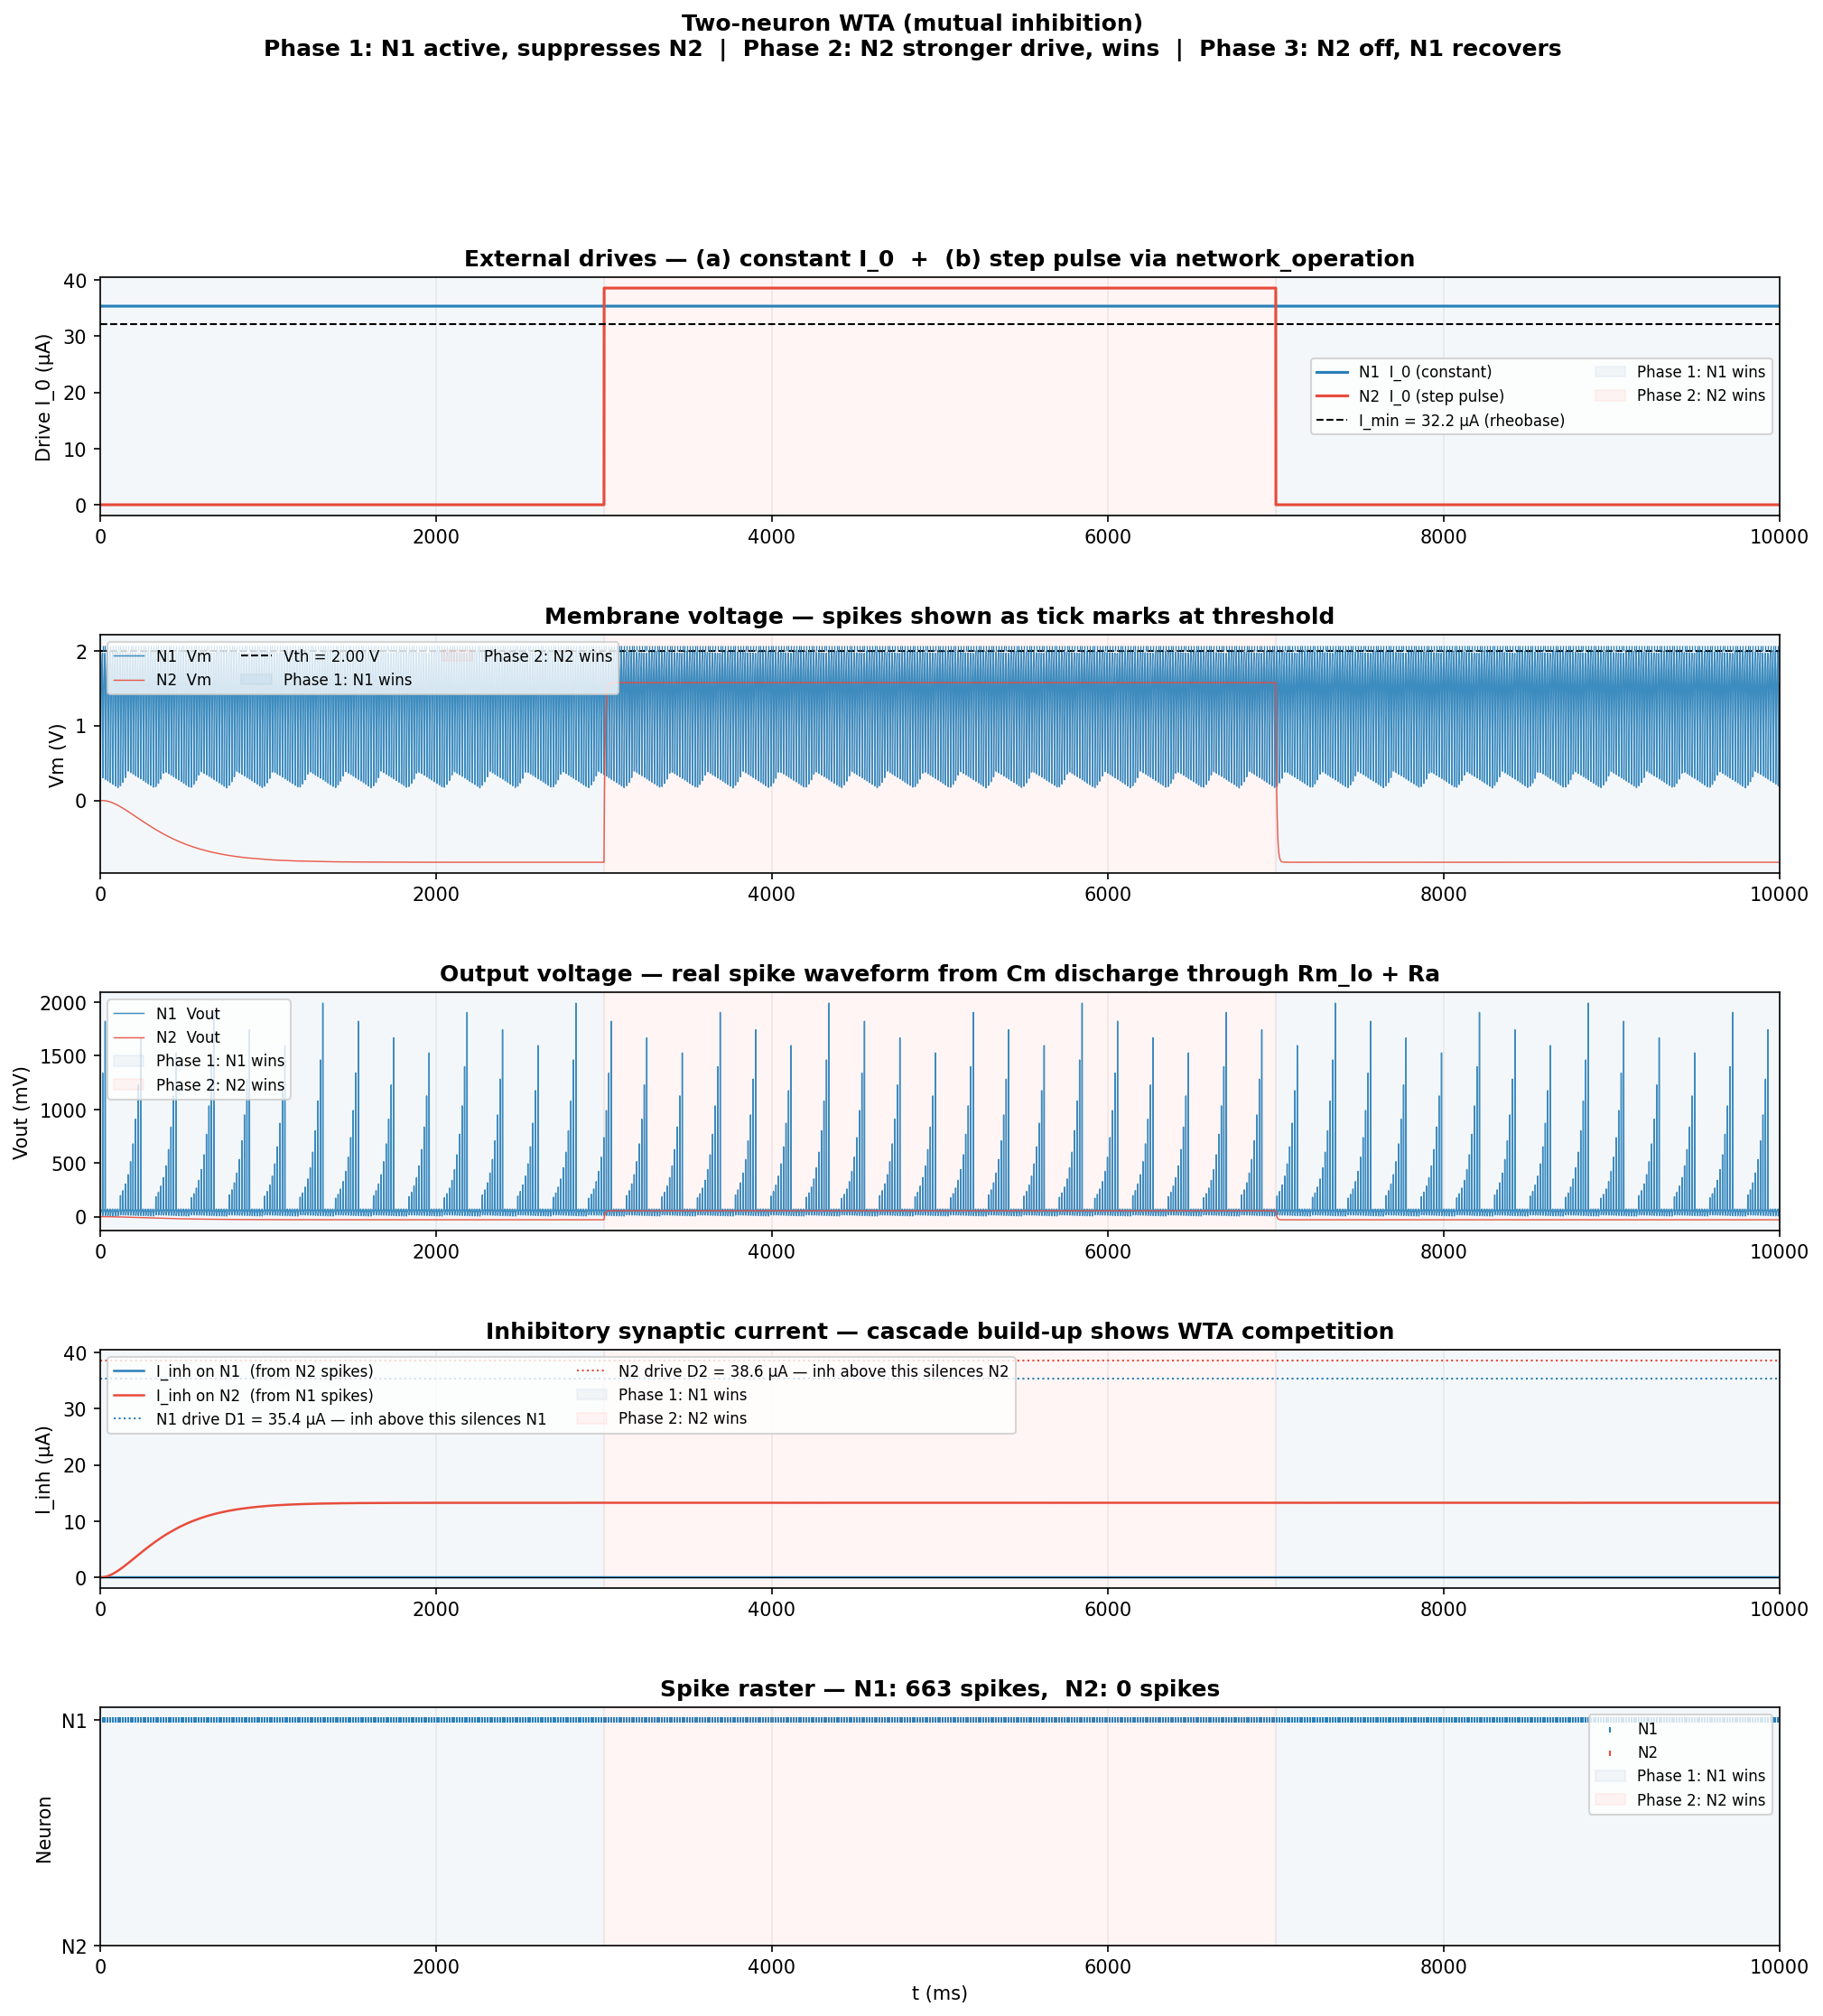
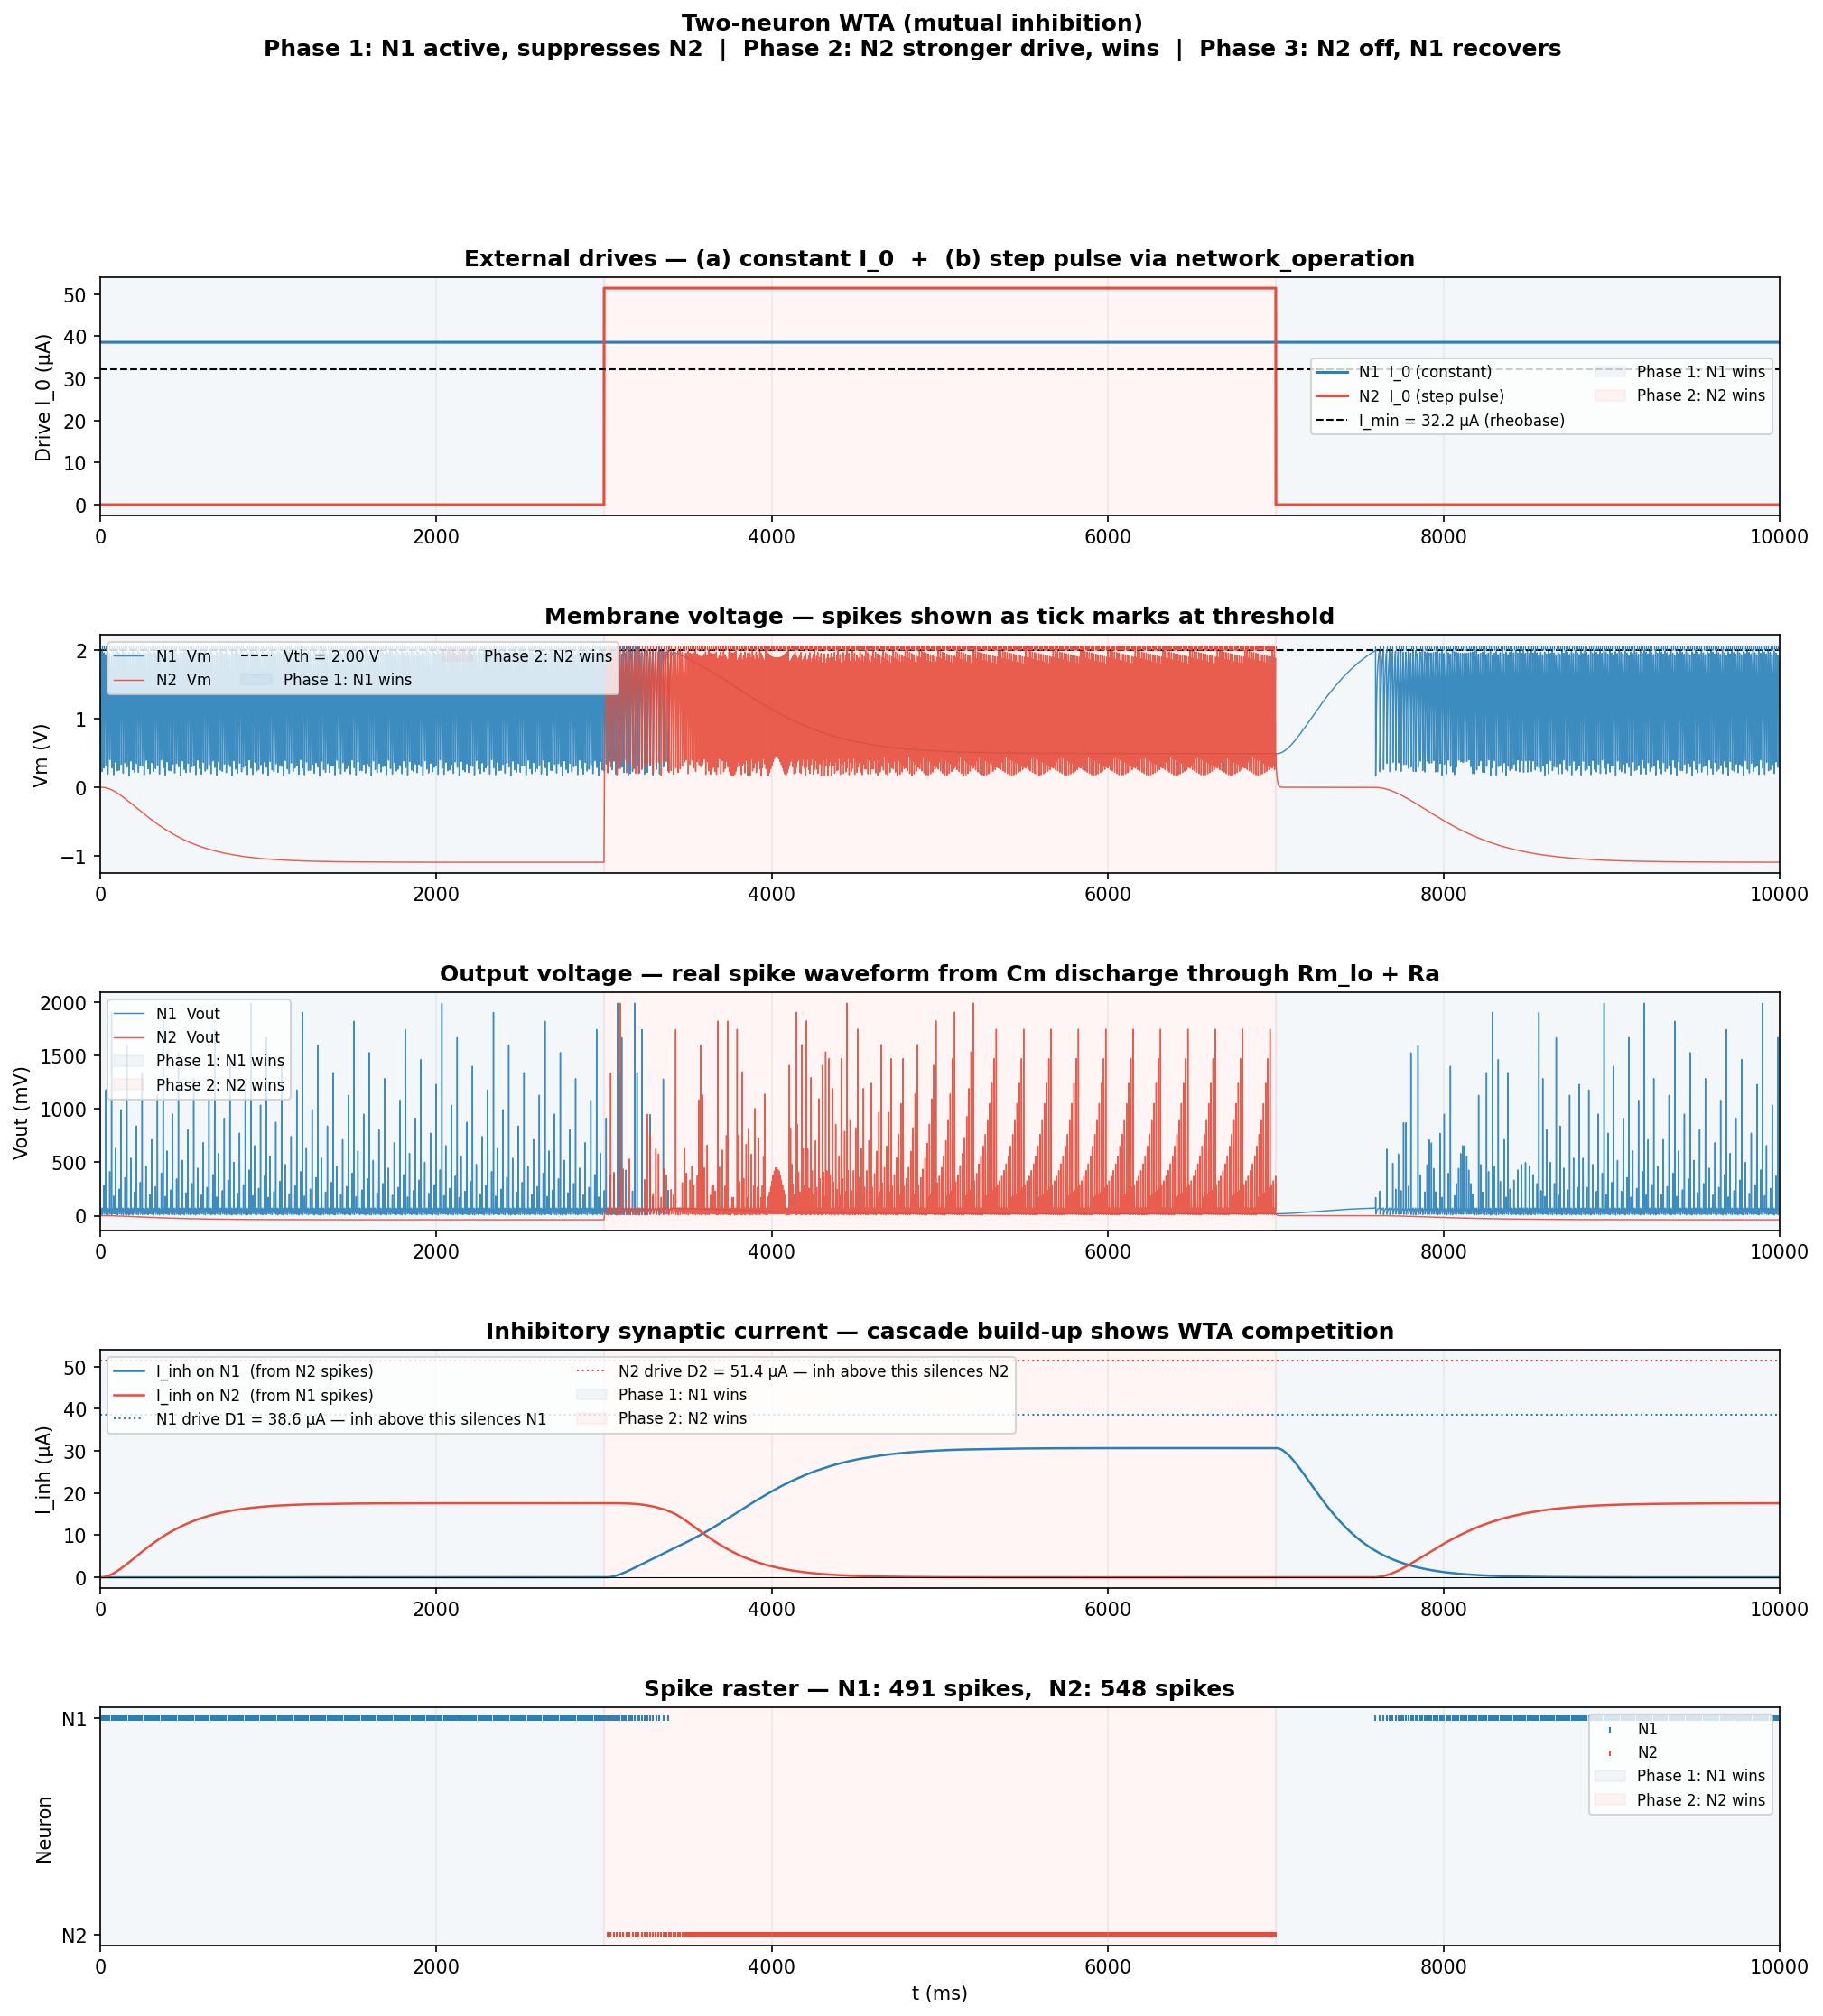
feat: configured the values of the neuron(I_max) and run the bump demo.the I_syn is too big,

diff --git a/demo/ns_msn_v3_bump.py b/demo/ns_msn_v3_bump.py
@@ -41,16 +41,16 @@ defaultclock.dt = 10*us
 
 # ─── Parameters ──────────────────────────────────────────────────────────────
 params = MSNParams()                      # intrinsic params (no tau here)
-tau_s_val = 200e-3                        # synapse cascade τ (s)
+tau_s_val = 300e-3                        # synapse cascade τ (s)
 print(params.summary())
 I_min, I_max = params.operating_window()
 
-I_0_val      = 0.75 * I_min     # 90% of rheobase — silent on its own
-I_pulse_val  = 0.3 * I_min     # 1s boost: I_0 + I_pulse = 1.05·I_min
-Iw_recur_val = 50e-7            # self-excitation sustains firing after pulse
+I_0_val      = 0.6 * I_min     # tonic bias current, just below rheobase (silent on its own)
+I_pulse_val  = 0.45 * I_min     # 1s boost: I_0 + I_pulse
+Iw_recur_val = 45e-7            # self-excitation sustains firing after pulse
 t_pulse      = 2.0*second       # let Vm settle before triggering
-t_pulse_dur  = 1.0*second       # pulse duration
-T_run        = 12.0*second
+t_pulse_dur  = 0.5*second       # pulse duration
+T_run        = 10.0*second
 
 # ─── Build neuron + self-excitatory synapse ───────────────────────────────────
 neuron = make_msn(N=1, params=params, name='msn_pop')
@@ -196,7 +196,7 @@ fig.suptitle(
     'subthreshold I_0 + self-recurrence sustains it',
     fontsize=12, fontweight='bold', y=1.005)
 plt.show()
-out_path = 'ns_msn_v3_bump.png'
+out_path = 'demo/ns_msn_v3_bump.png'
 plt.savefig(out_path, dpi=200, bbox_inches='tight')
 print(f"\nFigure saved → {out_path}")
 

diff --git a/demo/ns_msn_wta_demo.py b/demo/ns_msn_wta_demo.py
@@ -110,9 +110,9 @@ N2 = make_msn(N=1, params=neuron_params, name='N2')
 #   I_min < I_0 < I_max  → spontaneously firing
 #   I_0 > I_max          → depolarisation block (avoid)
 
-D1 = 1.1 * I_min          # µA — N1 fires spontaneously on its own
+D1 = 1.2 * I_min          # µA — N1 fires spontaneously on its own
 D2_off = 0.0              # µA — N2 silent on its own
-D2_on  = 1.2 * I_min      # µA — N2 strongly driven during pulse, wins over N1's spontaneous firing
+D2_on  = 1.6 * I_min      # µA — N2 strongly driven during pulse, wins over N1's spontaneous firing
 
 N1.I_0 = D1      * amp    # constant; never changes
 N2.I_0 = D2_off  * amp    # starts silent; boosted by (b) below

diff --git a/msn_neuron.py b/msn_neuron.py
@@ -89,7 +89,7 @@ class MSNParams:
     Rm_hi:  float = 60_000.0  # Ω     (60 kΩ effective off-state)
     Rm_lo:  float = 10.0      # Ω     (thyristor ~short when conducting)
     Vth:    float = 2.0       # V     (threshold; ≈ Vout peak amplitude)
-    I_hold: float = 80e-6     # A     (80 µA, median I_sat 35-device set)
+    I_hold: float = 100e-6    # A     (100 µA, median I_sat 35-device set)
 
     # ── JSON I/O ──────────────────────────────────────────────────────────────
 